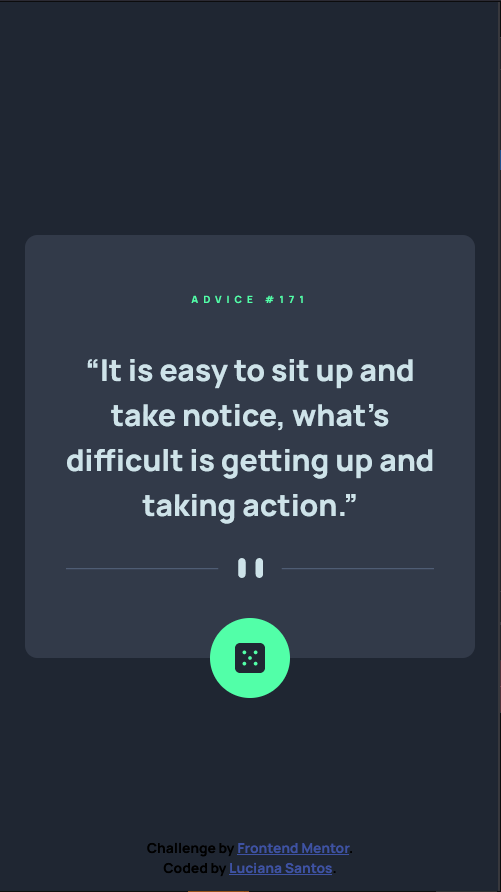
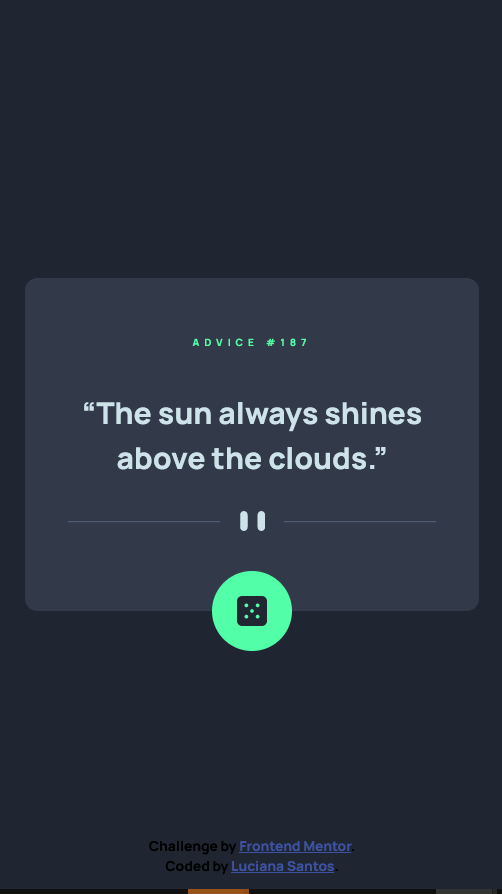
atualização no html e screeshots

Changed region(s): [[0.1198, 0.333, 0.8683, 0.787], [0.0, 0.9383, 0.8683, 0.9989], [0.988, 0.0, 1.0, 1.0]]

diff --git a/index.html b/index.html
@@ -27,7 +27,7 @@
     <main class="principal">
       <h4>Advice #<span id="adv-id">171</span></h4>
 
-      <p class="quote" id="quote">“It is easy to sit up and take notice, what's difficult is getting up and taking action.”</p>
+      <h1 class="quote">“<span id="quote">Roll the dice to get an advice.</span>”</h1>
 
       <div class="divider"></div>
 
